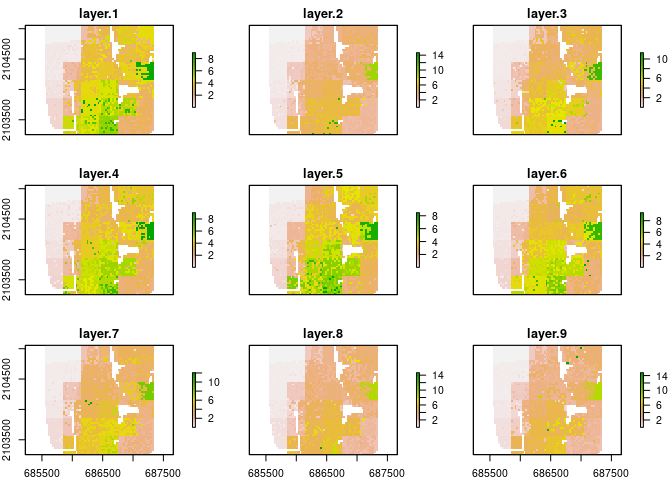
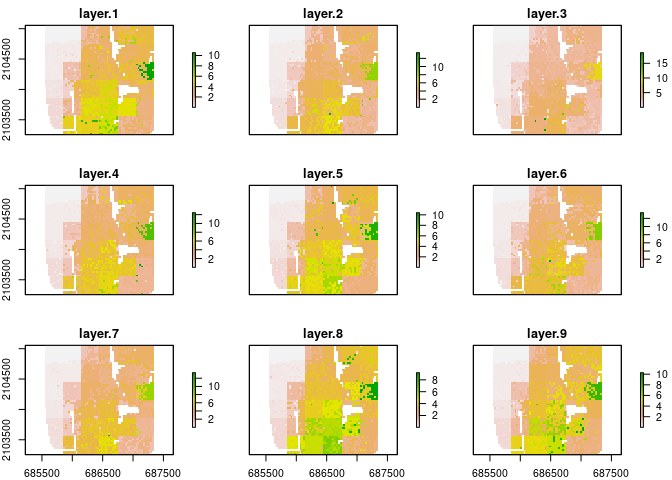
adds and updates references

diff --git a/README.md b/README.md
@@ -98,24 +98,24 @@ metr_df = calculate_metrics(x = real_raster, w = dens_raster,
                             size = NULL, threshold = 1)
 head(metr_df)
 #>   realization row col      ent  joinent  condent    mutinf
-#> 1           1   1   1 1.627886 3.141467 1.513581 0.1143050
-#> 2           2   1   1 1.619113 3.108702 1.489589 0.1295245
-#> 3           3   1   1 1.638733 3.160958 1.522226 0.1165072
-#> 4           4   1   1 1.635916 3.164117 1.528201 0.1077142
-#> 5           5   1   1 1.637975 3.167892 1.529917 0.1080575
-#> 6           6   1   1 1.634953 3.154888 1.519935 0.1150188
+#> 1           1   1   1 1.613048 3.098844 1.485796 0.1272523
+#> 2           2   1   1 1.632398 3.142268 1.509870 0.1225279
+#> 3           3   1   1 1.647741 3.164575 1.516834 0.1309073
+#> 4           4   1   1 1.642894 3.160951 1.518057 0.1248368
+#> 5           5   1   1 1.627609 3.136853 1.509244 0.1183651
+#> 6           6   1   1 1.630362 3.144456 1.514094 0.1162672
 ```
 
 ``` r
 # Summarize IT metrics 
 summary(metr_df[, c("ent", "mutinf")])
 #>       ent            mutinf       
-#>  Min.   :1.608   Min.   :0.09569  
-#>  1st Qu.:1.627   1st Qu.:0.10696  
-#>  Median :1.635   Median :0.11249  
-#>  Mean   :1.634   Mean   :0.11370  
-#>  3rd Qu.:1.640   3rd Qu.:0.11855  
-#>  Max.   :1.657   Max.   :0.13605
+#>  Min.   :1.611   Min.   :0.09491  
+#>  1st Qu.:1.628   1st Qu.:0.10914  
+#>  Median :1.635   Median :0.11422  
+#>  Mean   :1.634   Mean   :0.11421  
+#>  3rd Qu.:1.639   3rd Qu.:0.12085  
+#>  Max.   :1.650   Max.   :0.13091
 ```
 
 ## References
@@ -123,7 +123,7 @@ summary(metr_df[, c("ent", "mutinf")])
   - Dmowska, A., Stepinski T., Nowosad J. Racial landscapes – a
     pattern-based, zoneless method for analysis and visualization of
     racial topography. Applied Geography. 122:1-9,
-    <DOI:10.1016/j.apgeog.2020.102239>
+    <http://dx.doi.org/10.1016/j.apgeog.2020.102239>
 
 ## Contribution
 
